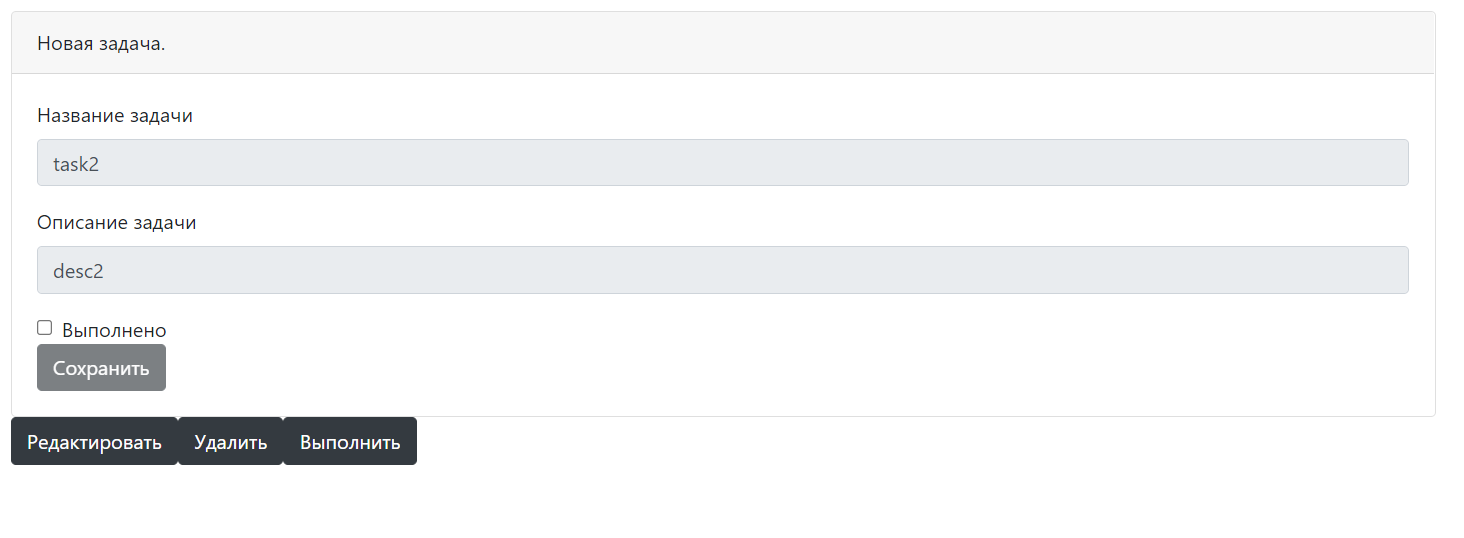
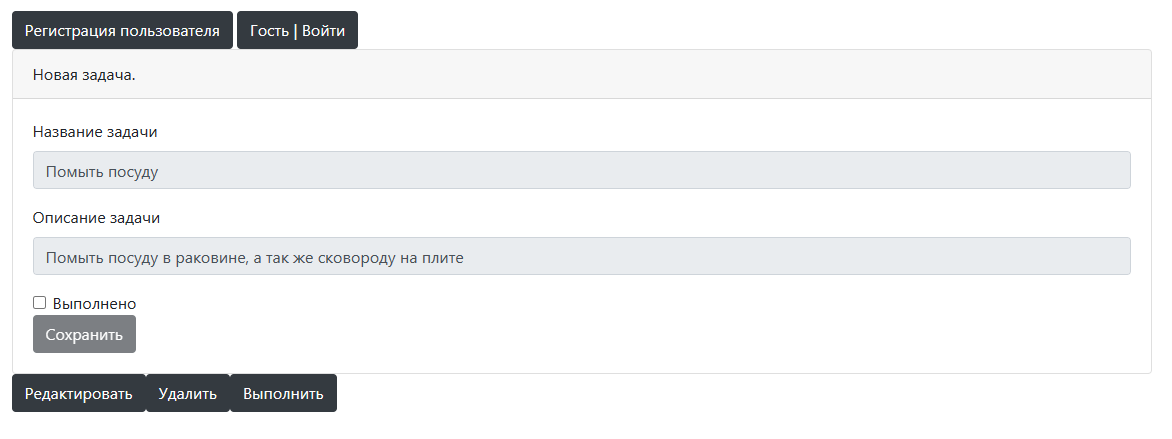
Добавлен функционал регистрации и авторизации пользователей

diff --git a/src/main/resources/templates/users/login.html b/src/main/resources/templates/users/login.html
@@ -13,7 +13,6 @@
 </head>
 <body>
 <div class="container pt-3">
-    <div th:insert="~{navigation :: navigator}"></div>
     <div class="row">
         <div class="card" style="width: 100%">
             <div class="card-header">
@@ -26,14 +25,14 @@
                 <form th:action="@{/login}" method="POST">
                     <input type="hidden" name="id" value="0"/>
                     <div class="form-group">
-                        <label>Почта</label>
-                        <input type="text" class="form-control" name="email">
+                        <label>Логин</label>
+                        <input type="text" class="form-control" name="login">
                     </div>
                     <div class="form-group">
                         <label>Пароль</label>
                         <input type="text" class="form-control" name="password">
                     </div>
-                    <button type="submit" class="btn btn-primary">Войти</button>
+                    <button type="submit" class="btn btn-dark">Войти</button>
                 </form>
             </div>
         </div>

diff --git a/src/main/resources/templates/tasks/list.html b/src/main/resources/templates/tasks/list.html
@@ -13,6 +13,7 @@
 <body>
 <div class="container">
     <div class="row"><div class="row">
+        <div th:insert="~{fragments/user :: control}"></div>
         <table class="table">
             <thead>
             <tr>
@@ -47,6 +48,7 @@
         <a class="btn btn-dark" th:href="@{/tasks/filter?done=true}" role="button">Выполненные</a>
         <a class="btn btn-dark" th:href="@{/tasks/filter?done=false}" role="button">Невыполненные</a>
         <a class="btn btn-dark" th:href="@{/tasks/add}" role="button">Добавить задачу</a>
+
     </div>
 </div>
 </body>

diff --git a/src/main/resources/templates/users/registration.html b/src/main/resources/templates/users/registration.html
@@ -16,6 +16,9 @@
         <div class="card" style="width: 100%">
             <div class="card-header">
                 Регистрация пользователя.
+                <div th:if="${fail}" class="alert alert-danger" role="alert">
+                    Не удалось сохранить пользователя. Вероятно введенный логин уже используется!
+                </div>
             </div>
             <div class="card-body">
                 <form th:action="@{/registration}" method="POST" th:object="${user}">

diff --git a/src/main/resources/templates/fragments/user.html b/src/main/resources/templates/fragments/user.html
@@ -1,0 +1,12 @@
+<div th:fragment="control">
+
+    <a class="btn btn-dark" th:href="@{/registration}" role="button">Регистрация пользователя</a>
+    <a class="btn btn-dark" th:if="${regUser.name == 'Гость'}" th:href="@{/login}">
+        <span th:text="${regUser.name}"></span>
+        <span> | Войти</span>
+    </a>
+    <a class="btn btn-dark" th:if="${regUser.name != 'Гость'}" th:href="@{/logout}">
+        <span th:text="${regUser.name}"></span>
+        <span> | Выйти</span>
+    </a>
+</div>

diff --git a/src/main/resources/templates/tasks/add.html b/src/main/resources/templates/tasks/add.html
@@ -13,6 +13,7 @@
 <body>
 <div class="container">
     <div class="row pt-3">
+        <div th:insert="~{fragments/user :: control}"></div>
         <div class="card" style="width: 100%">
             <div class="card-header">
                 Новая задача.

diff --git a/src/main/resources/templates/tasks/edit.html b/src/main/resources/templates/tasks/edit.html
@@ -13,6 +13,7 @@
 <body>
 <div class="container">
     <div class="row pt-3">
+        <div th:insert="~{fragments/user :: control}"></div>
         <div class="card" style="width: 100%">
             <div class="card-header">
                 Новая задача.

diff --git a/src/main/resources/templates/tasks/full.html b/src/main/resources/templates/tasks/full.html
@@ -13,6 +13,7 @@
 <body>
 <div class="container">
     <div class="row pt-3">
+        <div th:insert="~{fragments/user :: control}"></div>
         <div class="card" style="width: 100%">
             <div class="card-header">
                 Новая задача.

diff --git a/src/main/java/ru/job4j/todo/controller/TaskController.java b/src/main/java/ru/job4j/todo/controller/TaskController.java
@@ -6,9 +6,12 @@ import org.springframework.web.bind.annotation.*;
 import ru.job4j.todo.model.Task;
 import ru.job4j.todo.service.TaskService;
 
+import javax.servlet.http.HttpSession;
 import java.time.LocalDateTime;
 import java.util.List;
 import java.util.Optional;
+
+import static ru.job4j.todo.util.ViewUtils.checkUserOrSetDefault;
 
 @Controller
 @RequestMapping("/tasks")
@@ -21,21 +24,24 @@ public class TaskController {
     }
 
     @GetMapping({"/", ""})
-    public String tasks(Model model) {
+    public String tasks(Model model, HttpSession session) {
+        checkUserOrSetDefault(model, session);
         List<Task> tasks = taskService.findAll();
         model.addAttribute("tasks", tasks);
         return "tasks/list";
     }
 
     @GetMapping("/filter")
-    public String filtered(Model model, @RequestParam(name = "done") boolean done) {
+    public String filtered(Model model, @RequestParam(name = "done") boolean done, HttpSession session) {
+        checkUserOrSetDefault(model, session);
         List<Task> tasks = taskService.findByDone(done);
         model.addAttribute("tasks", tasks);
         return "tasks/list";
     }
 
     @GetMapping("/add")
-    public String addTaskForm(Model model) {
+    public String addTaskForm(Model model, HttpSession session) {
+        checkUserOrSetDefault(model, session);
         Task task = new Task(1,
                 "Заполните имя",
                 "Заполните описание",
@@ -53,7 +59,8 @@ public class TaskController {
     }
 
     @GetMapping("/full/{id}")
-    public String fullTask(@PathVariable(name = "id") int id, Model model) {
+    public String fullTask(@PathVariable(name = "id") int id, Model model, HttpSession session) {
+        checkUserOrSetDefault(model, session);
         Optional<Task> optionalTask = taskService.findById(id);
         if (optionalTask.isEmpty()) {
             System.out.println(" -- there is no such task --");
@@ -73,7 +80,8 @@ public class TaskController {
     }
 
     @GetMapping("/complete/{id}")
-    public String completeTask(@PathVariable(name = "id") int id) {
+    public String completeTask(@PathVariable(name = "id") int id, Model model, HttpSession session) {
+        checkUserOrSetDefault(model, session);
         if (!taskService.completeTask(id)) {
             return "redirect:/error1001";
         }
@@ -81,7 +89,8 @@ public class TaskController {
     }
 
     @GetMapping("/edit/{id}")
-    public String editTaskForm(@PathVariable(name = "id") int id, Model model) {
+    public String editTaskForm(@PathVariable(name = "id") int id, Model model, HttpSession session) {
+        checkUserOrSetDefault(model, session);
         Optional<Task> optionalTask = taskService.findById(id);
         if (optionalTask.isEmpty()) {
             return "redirect:/error1001";

diff --git a/src/main/java/ru/job4j/todo/controller/UserController.java b/src/main/java/ru/job4j/todo/controller/UserController.java
@@ -5,19 +5,63 @@ import org.springframework.ui.Model;
 import org.springframework.web.bind.annotation.GetMapping;
 import org.springframework.web.bind.annotation.ModelAttribute;
 import org.springframework.web.bind.annotation.PostMapping;
+import org.springframework.web.bind.annotation.RequestParam;
 import ru.job4j.todo.model.User;
+import ru.job4j.todo.service.UserService;
+
+import javax.servlet.http.HttpSession;
+import java.util.Optional;
 
 @Controller
 public class UserController {
+
+    private final UserService userService;
+
+    public UserController(UserService userService) {
+        this.userService = userService;
+    }
+
     @GetMapping("/registration")
     public String getRegistrationForm(Model model) {
         model.addAttribute("user", new User(0, "Имя", "Логин", "Пароль"));
+        model.addAttribute("fail", false);
         return "users/registration";
     }
 
     @PostMapping("/registration")
-    public String registerUser(@ModelAttribute User user) {
-        System.out.println(user);
+    public String registerUser(@ModelAttribute User user, Model model) {
+        String resultTemplate = "redirect:/tasks";
+        Optional<User> savedUser = userService.save(user);
+        if (savedUser.isEmpty()) {
+            model.addAttribute("user", user);
+            model.addAttribute("fail", true);
+            resultTemplate = "users/registration";
+        }
+        return resultTemplate;
+    }
+
+    @GetMapping("/login")
+    public String getLoginForm(Model model, @RequestParam(name = "fail", required = false) Boolean fail) {
+        if (null == fail) {
+            fail = false;
+        }
+        model.addAttribute("fail", fail);
+        return "users/login";
+    }
+
+    @PostMapping("/login")
+    public String login(Model model, @ModelAttribute User user, HttpSession session) {
+        Optional<User> dbUser = userService.findByLoginAndPassword(user.getLogin(), user.getPassword());
+        if (dbUser.isEmpty()) {
+            return "redirect:/login?fail=true";
+        }
+        session.setAttribute("user", dbUser.get());
         return "redirect:/tasks";
+    }
+
+    @GetMapping("/logout")
+    public String logout(HttpSession session) {
+        session.invalidate();
+        return "redirect:/login";
     }
 }

diff --git a/src/main/java/ru/job4j/todo/util/ViewUtils.java b/src/main/java/ru/job4j/todo/util/ViewUtils.java
@@ -1,0 +1,22 @@
+package ru.job4j.todo.util;
+
+import org.springframework.ui.Model;
+import ru.job4j.todo.model.User;
+
+import javax.servlet.http.HttpSession;
+
+public final class ViewUtils {
+
+    public static final String GUEST = "Гость";
+
+    private ViewUtils() {
+    }
+
+    public static void checkUserOrSetDefault(Model model, HttpSession session) {
+        User user = (User) session.getAttribute("user");
+        if (user == null) {
+            user = new User(0, GUEST, null, null);
+        }
+        model.addAttribute("regUser", user);
+    }
+}

diff --git a/src/main/java/ru/job4j/todo/repository/HibernateUserRepository.java b/src/main/java/ru/job4j/todo/repository/HibernateUserRepository.java
@@ -17,13 +17,17 @@ public class HibernateUserRepository implements UserRepository {
     }
 
     @Override
-    public User save(User user) {
+    public Optional<User> save(User user) {
+        User result;
         try (Session session = sf.openSession()) {
             session.beginTransaction();
             session.save(user);
             session.getTransaction().commit();
+            result = user;
+        } catch (Exception e) {
+            result = null;
         }
-        return user;
+        return Optional.ofNullable(result);
     }
 
     @Override

diff --git a/src/main/java/ru/job4j/todo/repository/UserRepository.java b/src/main/java/ru/job4j/todo/repository/UserRepository.java
@@ -5,7 +5,7 @@ import ru.job4j.todo.model.User;
 import java.util.Optional;
 
 public interface UserRepository {
-    User save(User user);
+    Optional<User> save(User user);
 
     Optional<User> findByLoginAndPassword(String login, String password);
 }
